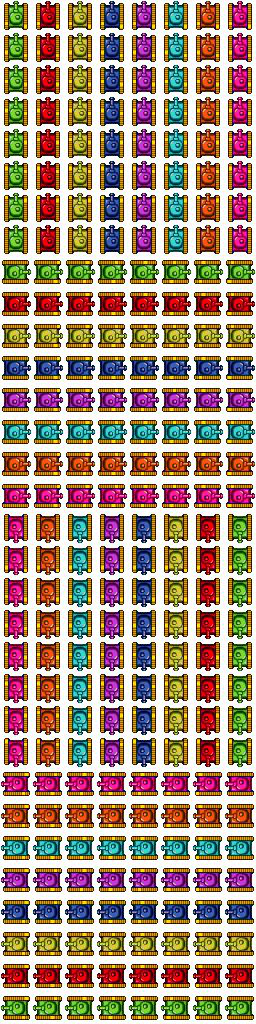
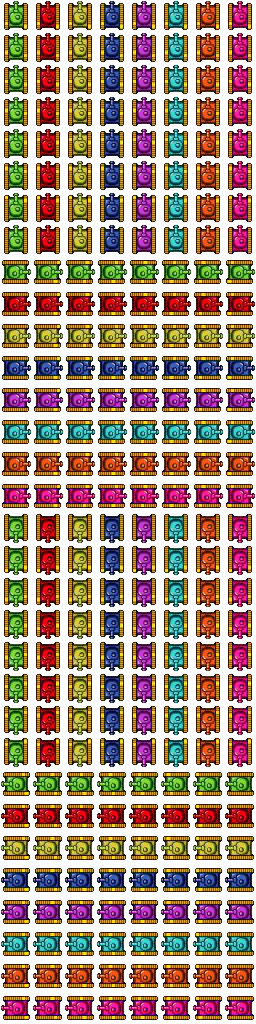
IN DEV..

diff --git a/src/Game.cpp b/src/Game.cpp
@@ -23,6 +23,10 @@ bool Game::canPlaceUnit(unsigned int x, unsigned int y, Unit const& unit)
 
     i = 0;
     field = unit.getField();
+    if (x >= _map.getWidth() || y >= _map.getHeight())
+    {
+        return (false);
+    }
     while (i < _units.size())
     {
         if (_units[i]->getField() == field && _units[i]->getX() == x && _units[i]->getY() == y)
@@ -34,23 +38,23 @@ bool Game::canPlaceUnit(unsigned int x, unsigned int y, Unit const& unit)
     return (_map.canGo(x, y, unit));
 }
 
-bool Game::placeUnit(Unit* unit)
+bool Game::placeUnit(Unit& unit)
 {
-    if (canPlaceUnit(unit->getX(), unit->getY(), *unit))
+    if (canPlaceUnit(unit.getX(), unit.getY(), unit))
     {
-        _units.push_back(unit);
+        _units.push_back(&unit);
         return (true);
     }
     return (false);
 }
 
-bool Game::addUnit(Unit* unit)
+bool Game::addUnit(Unit& unit)
 {
-    if (unit->getOwner().getBudget() >= unit->getCost())
+    if (unit.getOwner().getBudget() >= unit.getCost())
     {
         if (placeUnit(unit))
         {
-            unit->getOwner().setBudget(unit->getOwner().getBudget() - unit->getCost());
+            unit.getOwner().setBudget(unit.getOwner().getBudget() - unit.getCost());
             return (true);
         }
     }
@@ -72,8 +76,8 @@ void Game::resetUnits()
 void Game::cleanDeadUnits()
 {
 	unsigned int i;
-	std::vector<int> unitsToRemove;
-	std::vector<int> playersToRemove;
+	std::vector<unsigned int> unitsToRemove;
+	std::vector<unsigned int> playersToRemove;
 
 	/* Remove Dead Units*/
 	i = 0;
@@ -170,6 +174,163 @@ bool Game::isReachable(sf::Vector2i coord, std::vector<sf::Vector2u> posReachabl
     return (false);
 }
 
+bool Game::askPlaceUnits(sf::RenderWindow &window, Player& player)
+{
+    std::string choice;
+    sf::View fixed;
+    sf::Texture texture;
+    sf::Vector2i localPosition;
+    sf::Event event_placeUnit;
+    sf::Event event_selectUnit;
+    std::vector<sf::Vector2u> posReachable;
+    HighlightTile highlightTile;
+
+    /* Create a fixed view */
+    fixed = window.getView();
+
+    /* Load image and create sprite */
+    texture.loadFromFile("assets/image/cursorAttack.png");
+    sf::Sprite cursorAttack(texture);
+
+    /* Ask Users*/
+    start:
+    _chat.clear();
+    _chat.addMessage("Acheter une unit:\t(Budget: " + std::to_string(player.getBudget()) + "$)", sf::Color::Black);
+    _chat.addMessage("", sf::Color::White);
+    _chat.addMessage("*\tT: Tank\t300$", sf::Color::Black);
+    _chat.addMessage("*\tDelete: None", sf::Color::Black);
+    window.clear();
+    window.draw(_map);
+    window.draw(_chat);
+    drawItems(window);
+    window.draw(_star);
+    _chat.drawMessage(window);
+    window.display();
+
+    while (window.waitEvent(event_selectUnit))
+    {
+        if (event_selectUnit.type == sf::Event::Closed)
+        {
+            return (false);
+        }
+
+        else if (event_selectUnit.type == sf::Event::KeyPressed)
+        {
+            switch (event_selectUnit.key.code)
+            {
+                case sf::Keyboard::T:
+                    choice = "Tank";
+                    goto exit_loop;
+
+                case sf::Keyboard::BackSpace:
+                    return (true);
+
+                case sf::Keyboard::Return:
+                    return (true);
+
+                default:
+                    break;
+            }
+        }
+
+        /* Window */
+        window.clear();
+        window.draw(_map);
+        window.draw(_chat);
+        drawItems(window);
+        window.draw(_star);
+        _chat.drawMessage(window);
+        window.display();
+    }
+
+    exit_loop:
+    /* Load selected area */
+    if (!highlightTile.load("assets/image/selectedTile.png", sf::Vector2u(32, 32)))
+    {
+        return (false);
+    }
+    localPosition = sf::Mouse::getPosition(window);
+    recalibratePosition(localPosition);
+    convertPixelToCoord(localPosition);
+    highlightTile.setX((unsigned int)localPosition.x);
+    highlightTile.setY((unsigned int)localPosition.y);
+    Tank *tmp = new Tank((unsigned int) localPosition.x, (unsigned int) localPosition.y, player);
+    if (canPlaceUnit((unsigned int) localPosition.x, (unsigned int) localPosition.y, *tmp))
+        highlightTile.setTileNumber(1);
+    else
+        highlightTile.setTileNumber(0);
+    highlightTile.reload();
+    free(tmp);
+
+    /* Ask Where place Unit */
+    _chat.clear();
+    _chat.addMessage("Place " + choice + " ?", sf::Color::Black);
+    while (window.waitEvent(event_placeUnit))
+    {
+        if (event_placeUnit.type == sf::Event::Closed)
+        {
+            return (false);
+        }
+
+        else if (event_placeUnit.type == sf::Event::KeyReleased && (event_placeUnit.key.code == sf::Keyboard::Return || event_placeUnit.key.code == sf::Keyboard::Escape || event_placeUnit.key.code == sf::Keyboard::BackSpace))
+        {
+            goto start;
+        }
+
+        else if (event_placeUnit.type == sf::Event::MouseMoved)
+        {
+            localPosition = sf::Mouse::getPosition(window);
+            recalibratePosition(localPosition);
+            convertPixelToCoord(localPosition);
+            highlightTile.setX((unsigned int)localPosition.x);
+            highlightTile.setY((unsigned int)localPosition.y);
+            if (choice == "Tank")
+            {
+                Tank *tmp = new Tank((unsigned int) localPosition.x, (unsigned int) localPosition.y, player);
+                if (canPlaceUnit((unsigned int) localPosition.x, (unsigned int) localPosition.y, *tmp))
+                    highlightTile.setTileNumber(1);
+                else
+                    highlightTile.setTileNumber(0);
+                highlightTile.reload();
+                free(tmp);
+            }
+        }
+
+        else if (event_placeUnit.type == sf::Event::MouseButtonReleased && event_placeUnit.mouseButton.button == sf::Mouse::Left)
+        {
+            if (highlightTile.getTileNumber())
+            {
+                localPosition = sf::Mouse::getPosition(window);
+                recalibratePosition(localPosition);
+                convertPixelToCoord(localPosition);
+                Tank* tmp = new Tank((unsigned int)localPosition.x, (unsigned int)localPosition.y, player);
+                tmp->getCost();
+                if (!tmp->load("assets/image/tank.png", sf::Vector2u(32, 32)))
+                    return (false);
+                addUnit(*tmp);
+                goto start;
+            }
+        }
+
+        /* Set position */
+        cursorAttack.setPosition((sf::Vector2f)(sf::Mouse::getPosition(window)));
+        cursorAttack.setScale(sf::Vector2f((float)0.1, (float)0.1));
+
+        /* Window */
+        window.clear();
+        window.draw(_map);
+        window.draw(highlightTile);
+        window.draw(_chat);
+        drawItems(window);
+        window.draw(_star);
+        _chat.drawMessage(window);
+        window.setView(fixed);
+        window.draw(cursorAttack);
+        window.display();
+    }
+    return (false);
+}
+
 sf::Vector2i Game::askAttack(sf::RenderWindow &window, Unit const& unit)
 {
 	sf::View fixed;
@@ -199,7 +360,18 @@ sf::Vector2i Game::askAttack(sf::RenderWindow &window, Unit const& unit)
     {
         return (sf::Vector2i(-1, -1));
     }
+    localPosition = sf::Mouse::getPosition(window);
+    recalibratePosition(localPosition);
+    convertPixelToCoord(localPosition);
+    highlightTile.setX((unsigned int)localPosition.x);
+    highlightTile.setY((unsigned int)localPosition.y);
+    if (isReachable(localPosition, posReachable))
+        highlightTile.setTileNumber(1);
+    else
+        highlightTile.setTileNumber(0);
+    highlightTile.reload();
 
+    /* Main loop */
     while (window.waitEvent(event))
     {
         if (event.type == sf::Event::Closed)
@@ -249,7 +421,7 @@ sf::Vector2i Game::askAttack(sf::RenderWindow &window, Unit const& unit)
         }
 
 		/* Set position */       
-		cursorAttack.setPosition(static_cast<sf::Vector2f>(sf::Mouse::getPosition(window)));
+		cursorAttack.setPosition((sf::Vector2f)(sf::Mouse::getPosition(window)));
 		cursorAttack.setScale(sf::Vector2f((float)0.1, (float)0.1));
 
 		/* Window */
@@ -408,7 +580,7 @@ void Game::initPlayers()
     {
         tmp_units.push_back(new Hero(std::rand() % _map.getWidth() + 0, std::rand() % _map.getHeight() + 0, *_players[j]));
 
-        while (!addUnit(tmp_units[j]))
+        while (!addUnit(*tmp_units[j]))
         {
             tmp_units[j]->setX(std::rand() % _map.getWidth() + 0);
             tmp_units[j]->setY(std::rand() % _map.getWidth() + 0);
@@ -472,7 +644,6 @@ bool Game::reloadItems()
 
 int Game::Run(sf::RenderWindow &window)
 {
-    int numPlayer;
     int numUnits;
 	sf::Vector2i targetPosition;
     sf::Sound musicGong;
@@ -487,7 +658,6 @@ int Game::Run(sf::RenderWindow &window)
     const std::string pathImageStar         = "assets/image/star.png";
 
     /* Init */
-    numPlayer = 0;
     numUnits = 0;
     initPlayers();
 
@@ -521,6 +691,22 @@ int Game::Run(sf::RenderWindow &window)
     {
         return (CLOSE);
     }
+
+    /* Ask Each Player to Place Unit */
+    unsigned long capturePlayersSize = _players.size();
+    while (numUnits < capturePlayersSize)
+    {
+        _star.setX(_units[numUnits]->getX());
+        _star.setY(_units[numUnits]->getY() - 1);
+        _star.reload();
+        if (!askPlaceUnits(window, _units[numUnits]->getOwner()))
+            return (CLOSE);
+        numUnits++;
+    }
+    numUnits = 0;
+    resetUnits();
+    _chat.clear();
+    _chat.addMessage("Le combat commence", sf::Color::Black);
 
     /* Main Loop Game*/
     sf::Event event;
@@ -579,7 +765,6 @@ int Game::Run(sf::RenderWindow &window)
 				case sf::Keyboard::BackSpace:
 					_chat.addMessage(_units[numUnits]->getOwner().getName() + " passe son tour", sf::Color::Yellow);
 					numUnits++;
-					numPlayer++;
 					break;
 
                 default:
@@ -594,14 +779,14 @@ int Game::Run(sf::RenderWindow &window)
 			_chat.addMessage(_players[0]->getName() + " Wins !!!", sf::Color::Magenta);
 			return (END);
 		}
-		else if (_players.empty())
+        else if (_players.empty())
 		{
 			std::cout << "Tie!!!" << std::endl;
 			return (END);
 		}
 
         /* Check New Turn */
-		if (numUnits == _players.size())
+		if (numUnits == _units.size())
 		{
 			numUnits = 0;
 			newTurn();

diff --git a/src/Tank.cpp b/src/Tank.cpp
@@ -25,6 +25,11 @@ unsigned int Tank::getAttackArea() const
     return (4);
 }
 
+unsigned int Tank::getAttackDammage() const
+{
+    return (1000);
+}
+
 Stats const& Tank::getBaseStats()
 {
     static Stats stats {200, 20, 6, 3, 200, 20, 6, 3};
@@ -69,11 +74,11 @@ void Tank::turn(Direction direction)
                 break;
 
             case East:
-                _tileNumber = 8 * (9 + getOwner().getId() - 1);
+                _tileNumber = 8 * (24 + getOwner().getId() - 1);
                 break;
 
             case West:
-                _tileNumber = 8 * (25 + getOwner().getId() - 1);
+                _tileNumber = 8 * (8 + getOwner().getId() - 1);
                 break;
         }
 }
@@ -93,7 +98,7 @@ bool Tank::load(const std::string& tileset, sf::Vector2u tileSize)
     _vertices.setPrimitiveType(sf::Quads);
     _vertices.resize(4);
 
-    _tileNumber = 8 * (9 + getOwner().getId() - 1);
+    _tileNumber = 8 * 17 + getOwner().getId() - 1;
 
     unsigned int tu = _tileNumber % (_tileset.getSize().x / _tileSize.x);
     unsigned int tv = _tileNumber / (_tileset.getSize().x / _tileSize.x);

diff --git a/src/Chat.cpp b/src/Chat.cpp
@@ -60,6 +60,18 @@ bool Chat::load(const std::string& tileset, sf::Vector2u tileSize, Map const& _m
 }
 
 
+void Chat::clear()
+{
+	unsigned int i;
+
+    i = 0;
+	while (i < MAX_MESSAGE)
+	{
+		_message[i].setString(" ");
+		i++;
+	}
+}
+
 void Chat::draw(sf::RenderTarget& target, sf::RenderStates states) const
 {
 	states.transform *= getTransform();
